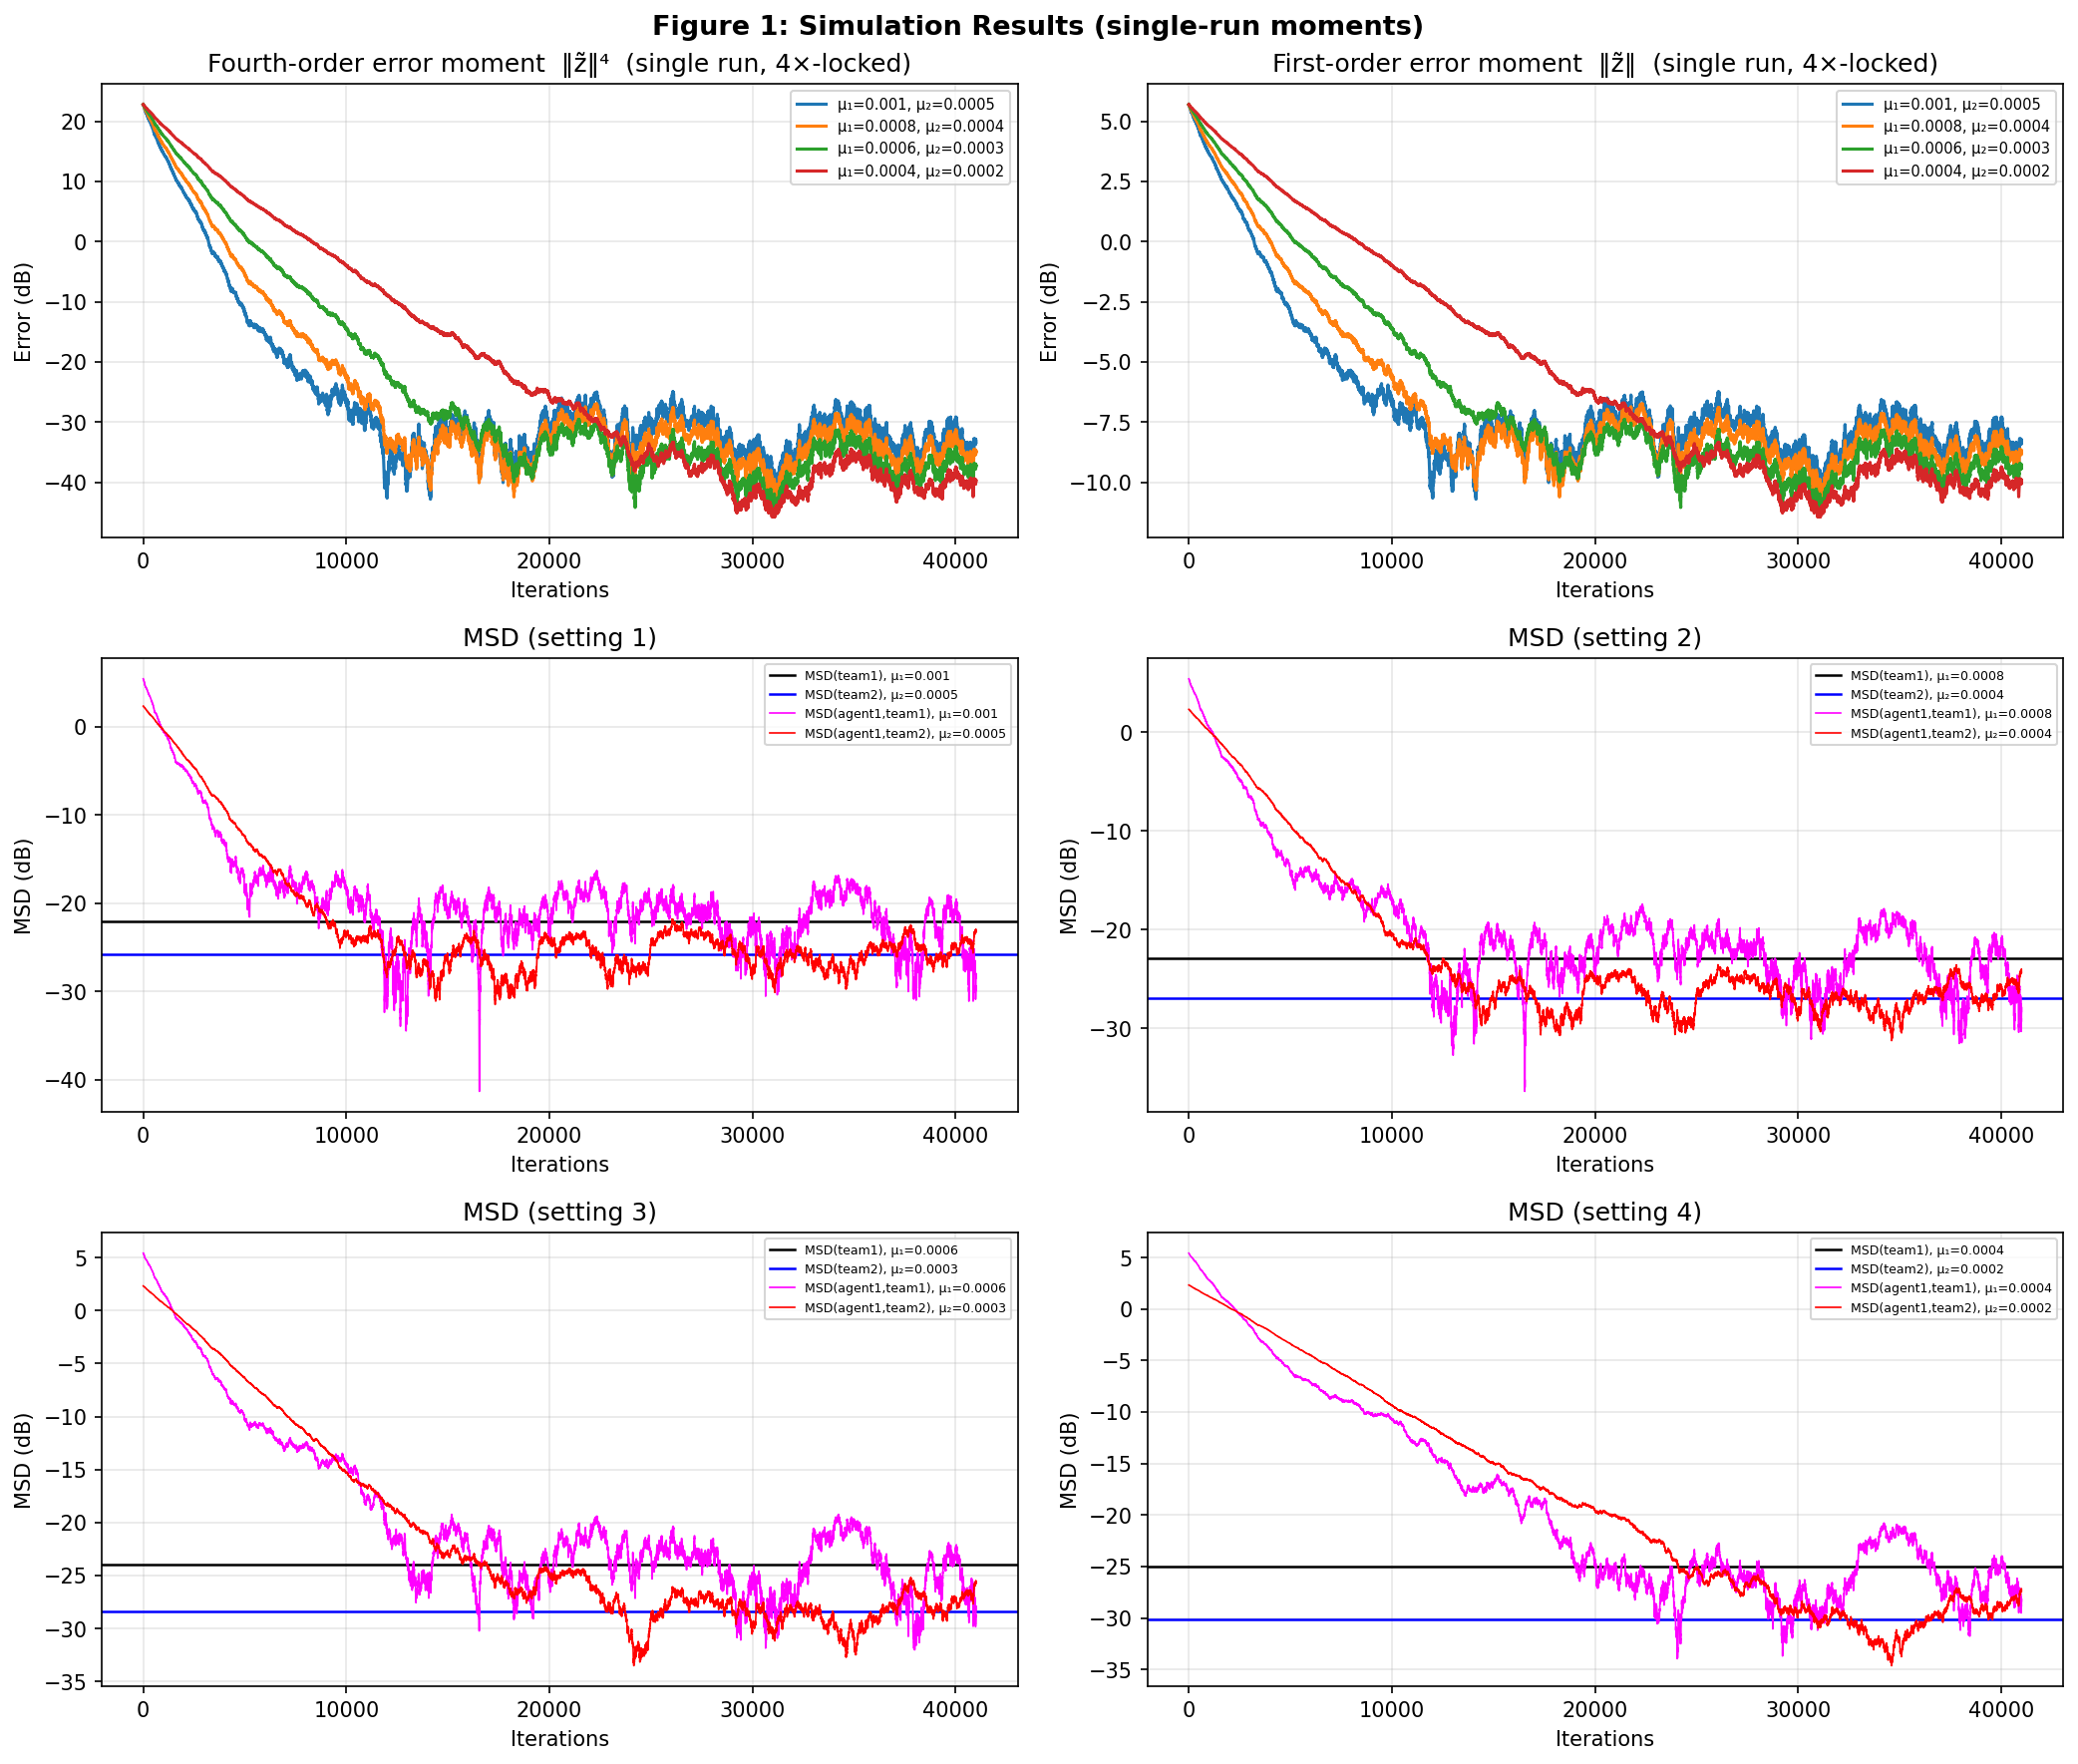
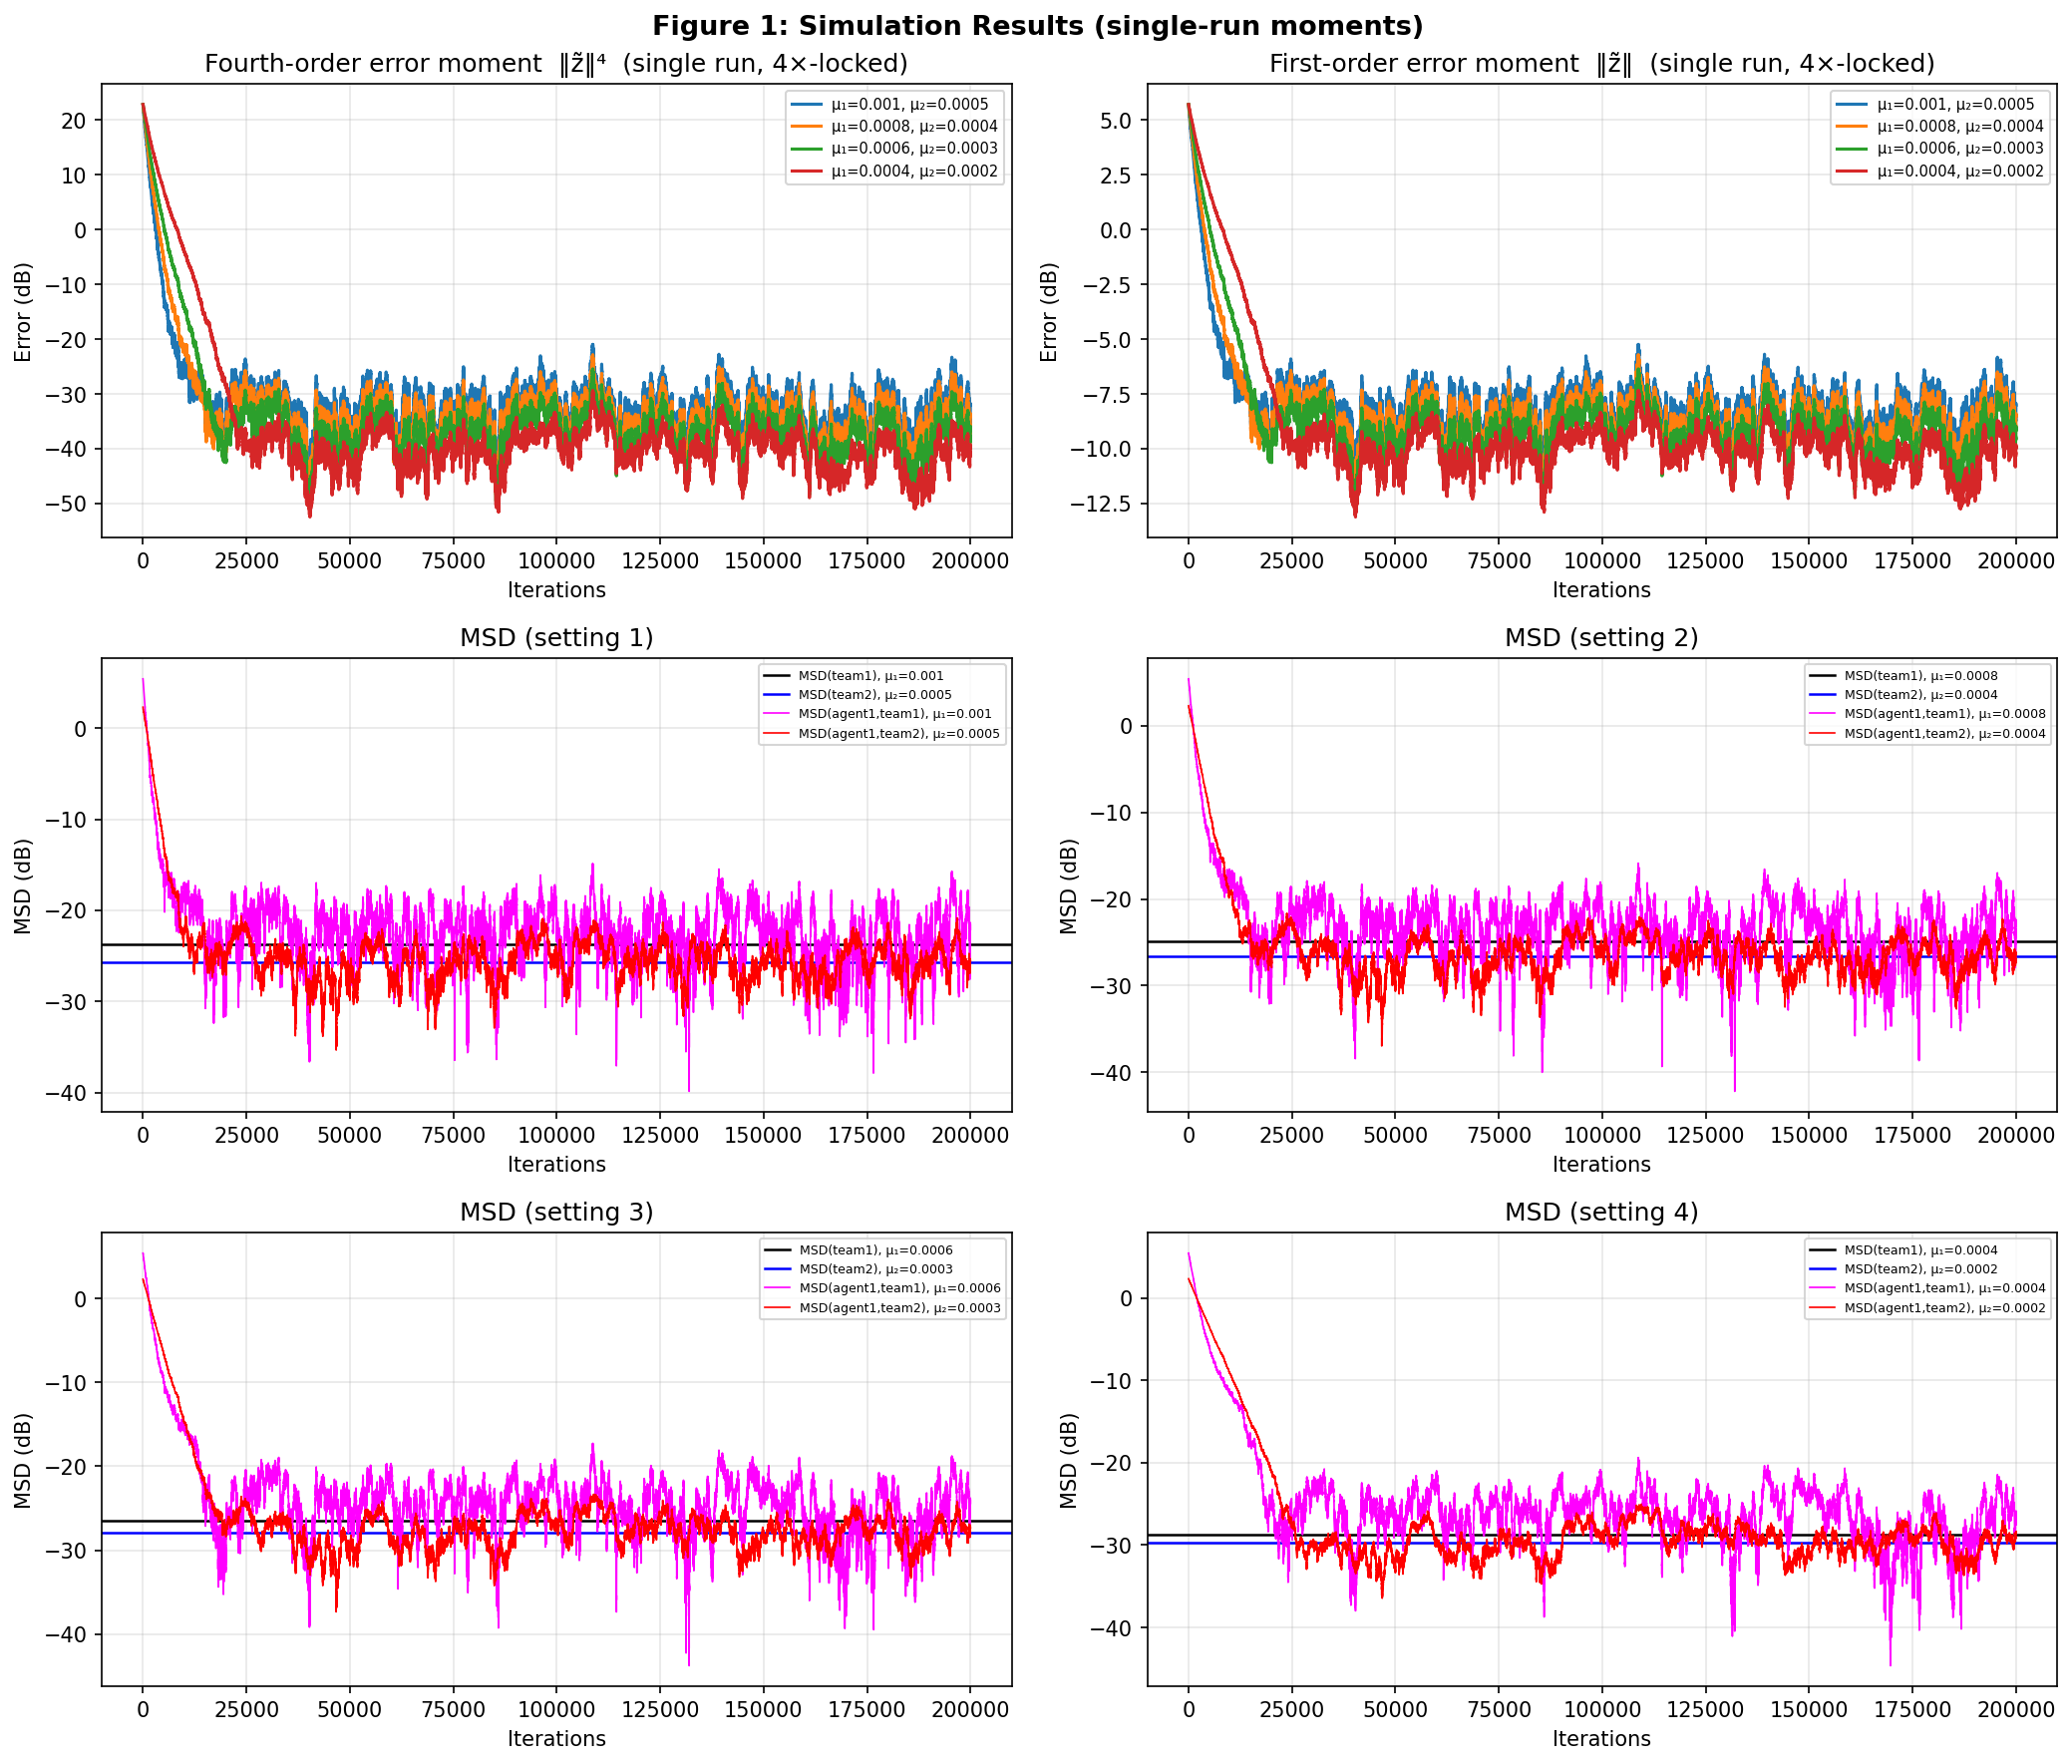
did 200k single, saved 41k MC

diff --git a/scratch/early_iters_throwaway.py b/scratch/early_iters_throwaway.py
@@ -1,0 +1,61 @@
+# THROWAWAY diagnostic — not part of the project. Safe to delete.
+# Short run (few iters) for all 3 topologies with IDENTICAL obs + init, to see the
+# early-iteration consensus separation in MSD (dB AND linear) + within-team disagreement.
+
+import os, sys
+ROOT = os.path.dirname(os.path.dirname(os.path.abspath(__file__)))
+sys.path.insert(0, ROOT)
+
+import numpy as np
+import matplotlib.pyplot as plt
+from config import TOPOLOGIES, MU1, MU2, K1, K2, Z_STAR, ZK_STAR, R_U
+from network import build_within_team_matrix, build_cross_team_matrices
+from algorithm import run_cd
+from metrics import compute_msd, compute_within_team_disagreement, to_db
+from game import QuadraticGame
+
+N_ITERS = 40        # total run length
+ZOOM    = 15        # iterations to display
+colors  = {"fully_connected": "tab:blue", "ring": "tab:orange", "single_edge": "tab:green"}
+
+msd_lin, msd_db, disagree = {}, {}, {}
+for topo in TOPOLOGIES:
+    A1   = build_within_team_matrix(topo, K1)
+    A2   = build_within_team_matrix(topo, K2)
+    mats = build_cross_team_matrices(topo)
+    game = QuadraticGame(ZK_STAR, R_U)          # fresh game, same seed -> identical obs
+    hist = run_cd(game, {**mats, "A1": A1, "A2": A2}, mu1=MU1, mu2=MU2,
+                  num_iters=N_ITERS, use_cache=False, label=topo)
+    m = compute_msd(hist, Z_STAR)               # linear
+    msd_lin[topo]  = m
+    msd_db[topo]   = to_db(m)
+    disagree[topo] = compute_within_team_disagreement(hist)
+
+# --- numeric table, first 8 iters ---
+print("\niter |        MSD linear (fully / ring / single)        |   disagreement (fully / ring / single)")
+for i in range(8):
+    ml = [msd_lin[t][i] for t in TOPOLOGIES]
+    dd = [disagree[t][i] for t in TOPOLOGIES]
+    print(f"{i:>4} | {ml[0]:8.4f} {ml[1]:8.4f} {ml[2]:8.4f}  | "
+          f"{dd[0]:8.4f} {dd[1]:8.4f} {dd[2]:8.4f}")
+
+# --- plot ---
+fig, (ax_db, ax_lin, ax_dis) = plt.subplots(1, 3, figsize=(18, 5))
+fig.suptitle(f"THROWAWAY: first {ZOOM} iterations, identical obs+init (μ₁={MU1}, μ₂={MU2})",
+             fontweight="bold")
+
+for t in TOPOLOGIES:
+    ax_db.plot(range(ZOOM),  msd_db[t][:ZOOM],  "o-", color=colors[t], label=t)
+    ax_lin.plot(range(ZOOM), msd_lin[t][:ZOOM], "o-", color=colors[t], label=t)
+    ax_dis.plot(range(ZOOM), disagree[t][:ZOOM], "o-", color=colors[t], label=t)
+
+ax_db.set_title("MSD-to-Nash (dB)");      ax_db.set_ylabel("MSD (dB)")
+ax_lin.set_title("MSD-to-Nash (linear)"); ax_lin.set_ylabel(r"mean $\|est-z^*\|^2$ (linear)")
+ax_dis.set_title("Within-team disagreement (linear)"); ax_dis.set_ylabel(r"mean $\|x_k-\bar x\|^2$ (linear)")
+for ax in (ax_db, ax_lin, ax_dis):
+    ax.set_xlabel("Iteration"); ax.legend(); ax.grid(True, alpha=0.3)
+
+plt.tight_layout()
+out = os.path.join(os.path.dirname(os.path.abspath(__file__)), "early_iters_throwaway.png")
+plt.savefig(out, dpi=150, bbox_inches="tight")
+print(f"\nSaved -> {out}")

diff --git a/config.py b/config.py
@@ -17,7 +17,12 @@ MU1 = 0.001
 MU2 = 0.0005
 
 # --- Simulation ---
-NUM_ITERS = 200_000
+# Regular/single-run figures use the paper's full horizon (2×10⁵). The Monte-Carlo
+# moment panels (Figure 1, mc mode) run MC_SEEDS × 4 μ-settings, so 200k there is far
+# too slow; they keep the shorter 41k horizon. This preserves the existing 41k MC
+# figures while letting the regular figures move to 200k.
+NUM_ITERS    = 200_000   # regular / single-run: Fig 1 (regular), Fig 2, Fig 3
+MC_NUM_ITERS = 41_000    # Monte-Carlo moment panels only: Fig 1 (mc)
 RANDOM_SEED = 42
 
 # Monte-Carlo realisations for the error-moment panels in Figure 1.

diff --git a/experiments/reproduce_figure1.py b/experiments/reproduce_figure1.py
@@ -25,7 +25,7 @@ sys.path.insert(0, ROOT)
 
 import numpy as np
 import matplotlib.pyplot as plt
-from config import K1, K2, MU_SWEEP, MC_SEEDS, Z_STAR, ZK_STAR, R_U
+from config import K1, K2, MU_SWEEP, MC_SEEDS, MC_NUM_ITERS, Z_STAR, ZK_STAR, R_U
 from network import build_within_team_matrix, build_cross_team_matrices, sanity_check
 from algorithm import run_cd
 from game import QuadraticGame
@@ -54,7 +54,8 @@ def _mc_error_moments(matrices, mu1, mu2, n_seeds, tag):
     hist0 = None
     for s in range(n_seeds):
         game = QuadraticGame(ZK_STAR, R_U, rng=np.random.default_rng(s))
-        hist = run_cd(game, matrices, mu1=mu1, mu2=mu2, seed=s, use_cache=False,
+        hist = run_cd(game, matrices, mu1=mu1, mu2=mu2, num_iters=MC_NUM_ITERS,
+                      seed=s, use_cache=False,
                       label=f"{tag} seed {s + 1}/{n_seeds}")
         e4_sum = e4_sum + compute_fourth_order_moment(hist, Z_STAR) if e4_sum is not None \
             else compute_fourth_order_moment(hist, Z_STAR)

diff --git a/DOA_internal_doc_corrected.md b/DOA_internal_doc_corrected.md
@@ -1,0 +1,159 @@
+# DOA Projekat interni dokument
+
+**Links:**
+- Git Repo
+- This document
+- Overleaf (LaTeX of the paper)
+
+## Project idea
+
+Roughly speaking: let's implement the CD algorithm from the given paper, vary mu and network topology, and see how it behaves depending on those changes.
+
+Final goal/deliverable? Unclear, one option is aiming for these three plots:
+- **Figure 1:** reproduce the paper's MSD plots as validation that implementation is correct
+- **Figure 2:** MSD convergence for varying topology sparsity — fully connected vs ring vs single cross-team edge. *(Finding from the runs: the MSD-to-Nash floor is essentially topology-invariant in this regime — the gradient timescale 1/μ greatly exceeds the graph-mixing timescale, and every connected graph reaches the same steady state. The figure presents this invariance, plus a within-team-disagreement panel where topology IS visible: fully connected reaches consensus in 1 step, ring/single-edge over ~5 steps. This is consistent with the paper's claim that a single cross-team edge already converges.)*
+- **Figure 3:** MSD floor as a function of μ for fixed topology
+
+## Zadaci po osobi:
+
+Ovo je okviran predlog za početak, i menjaće se kroz vreme
+
+### Role 1: The Algorithm - Milica
+Objective: Build the core logic of the Competing Diffusion (CD) algorithm and the simulated "World."
+- Implement Algorithm 1: Code the iterative update loops found in the source material. This includes:
+  - Within-Team Diffusion: Implementing the "Adapt-then-Combine" (ATC) step where agents take a gradient step and average with teammates.
+  - Cross-Team Inference: Coding the step where agents estimate the opponent's move using limited cross-team observations.
+- Implement stochastic gradient formula for the quadratic loss, based on the formula documented by Marija.
+- Data Generation: Create a "streaming data" class to simulate the Quadratic Game. You will generate the observations (u_{k,i} and d(k,i)) for each agent at every time step using **that agent's own ground-truth vector z_k\*** (one per agent — paper eq. 26), parameterized by the mathematician. **Important:** data is generated from the per-agent targets z_k\*, NOT from the shared Nash equilibrium z\*. (With a single shared z\* the teams would trivially agree and there would be no real competition.) The Nash z\* is derived from the set of {z_k\*} and is used only to measure error.
+- Modular Integration: Ensure the algorithm is modular so it can easily accept different graph structures and step-size parameters for testing.
+- Paper writing: explaining the implementation section, and any shared parts (eg intro)
+
+### Role 2: The Network & Performance - Luka
+Objective: Handle the infrastructure (graph theory) and visualize how well the system learns.
+- Network Topology (Graph Design): Use NetworkX to build the connection matrices (A). You must ensure they meet the paper's requirements: they must be left-stochastic (columns sum to 1) and primitive (the network is connected).
+- Independent Experimentation: Run two separate sets of simulations to "stress test" the algorithm's performance:
+  - Topology Test: Compare how the algorithm converges when teams are fully connected vs. when they are connected by only a single link. Could be multiple plots for a handful of topologies, or many topologies, in which case topology goes into x axis (actually metric). Which metric? Testing which one has biggest correlation?
+  - Learning Rate Test: Compare the steady-state "error floor" across different step-sizes (μ). The paper's Fig. 1 displays MSD at four step-size settings (its four MSD panels); **Figure 3 consolidates those floors into a single floor-vs-μ curve — that consolidation is our own plot**, motivated by the O(μ_max) steady-state bound (Theorem 1/2).
+- Call the MSD prediction function to overlay theoretical vs simulated curves on plots. Probably too complex to implement, so skipped.
+- Visualization: Calculate the Mean-Square Deviation (MSD) — the average squared distance from the truth — and plot it in dB (decibels) over the simulation horizon (NUM_ITERS = 41,000 iterations in our runs; the paper uses 2×10⁵).
+- Paper writing: explaining the graph topology section and the plots/visualization and any shared parts (eg intro).
+- Available as much as needed for the presentation/paper defense.
+
+### Role 3: The Theory & Strategy - Marija
+Objective: Define the "rules" of the game and translate the paper's stability requirements into code parameters.
+- Problem Formulation: Define the specific Quadratic Game parameters (like covariance matrices R_{k,u} and noise levels σ_{k,v}) **and the per-agent target vectors z_k\***.
+- Establish the "Ground Truth": Define the per-agent targets z_k\*, then compute the Nash Equilibrium (z\*) from the set of {z_k\*} (an exact linear solve). **Milica needs the per-agent z_k\*** to generate each agent's data; **Luka needs the Nash z\*** to measure the error (MSD). Note the dependency: the z_k\* are the inputs, z\* is derived from them.
+- Document the stochastic gradient formula so Milica can implement it
+- Parameter Tuning: Determine the valid range for the step-sizes (μ). You will use the paper's Assumption 2 to ensure the chosen values are "sufficiently small" to guarantee that the system remains stable and doesn't "blow up".
+- Theoretical MSD Prediction Function: using Lyapunov equation. Probably too complex, skipped.
+- Analysis: Lead the report-writing by explaining why the algorithm is stable in your tests. You will link the observed results (e.g., why a smaller μ results in a lower error floor) back to the paper's first- and fourth-order stability claims.
+- Looking into literature: finding if any relevant similar papers exist to be listed in bibliography, maybe specific examples/applications, or descriptions how CD algorithm responds to mu/topology changes, or on diffusion learning for context, or on network games. Not a full literature review.
+
+---
+
+## Glossary/rečnik ključnih varijabli/konstanti
+
+Pošto ima puno grčkih slova, latiničnih slova, podvučeno, nadvučeno, subskript, superscript - na jednom mestu ćemo ih sve definisati prostim rečima, pa pojasniti teorijski i provući kroz ilustrativan primer prodavnica da bismo lakše intuitivno razumeli šta se dešava.
+
+### 1. Problem Given
+Everything here is fixed before the algorithm starts. You define these once when setting up the simulation.
+
+- **K₁** — How many agents are in Team 1. FreshMart/QuickShop: K₁ = 2 (two FreshMart store locations).
+- **K₂** — How many agents are in Team 2. FreshMart/QuickShop: K₂ = 4 (four QuickShop store locations).
+- **K** — Total agents across both teams. K = K₁ + K₂. FreshMart/QuickShop: K = 6.
+- **M₁** — How many numbers Team 1 is optimizing — the length of their strategy vector. FreshMart/QuickShop: M₁ = 2 (FreshMart sets one price for bread, one for milk).
+- **M₂** — Same as M₁ but for Team 2. FreshMart/QuickShop: M₂ = 3 (QuickShop sets prices for bread, milk, cheese).
+- **M** — Total strategy dimension across both teams. M = M₁ + M₂. FreshMart/QuickShop: M = 5.
+- **N^(1)** — The set of labels identifying Team 1's agents. N^(1) = {1, …, K₁}. FreshMart/QuickShop: N^(1) = {1, 2}.
+- **N^(2)** — The set of labels identifying Team 2's agents. N^(2) = {K₁+1, …, K}. FreshMart/QuickShop: N^(2) = {3, 4, 5, 6}.
+- **N** — All agents together. N = N^(1) ∪ N^(2). FreshMart/QuickShop: N = {1, 2, 3, 4, 5, 6}.
+
+- **p_k^(t)** — How much agent k's loss counts toward its team's total objective. A positive scalar set by design. All weights within a team sum to 1. In the simplest case every agent is weighted equally. FreshMart/QuickShop: p₁^(1) = p₂^(1) = 0.5 — both FreshMart stores contribute equally to FreshMart's total loss. **Note: the p_k weights appear in the team objective J^(t) and in Marija's Assumption-2 computation. They do NOT appear in the ATC update loop — each agent simply steps along its own local gradient ∇Q_k with no explicit weighting. The weighting is implicit: with the chosen (uniform, doubly-stochastic) combination matrices, the dynamics converge to the p_k-weighted Nash equilibrium.**
+
+- **Q_k^(t)(x, y, ξ)** — The loss agent k computes from a single observed data sample ξ. One noisy estimate of how bad the current strategy is. For the quadratic game this is (1/2)‖u_{k,i}^T z − d(k,i)‖². FreshMart/QuickShop: How poorly FreshMart store 1's current pricing explains today's customer demand — computed from a single day's observation.
+- **J_k^(t)(x, y)** — The true expected loss of agent k — the average of Q_k^(t) over all possible data samples. This is what the agent would minimize if it had infinite data. In practice it can't be computed directly, only approximated sample by sample. FreshMart/QuickShop: FreshMart store 1's average pricing error across all possible market days, given both chains' current prices.
+- **J^(1)(x, y)** — Team 1's total objective. Weighted sum of all Team 1 agents' expected losses: J^(1) = Σ p_k^(1) J_k^(1). This is what Team 1 collectively minimizes by choosing x. FreshMart/QuickShop: FreshMart's overall pricing performance — a weighted average across both store locations.
+- **J^(2)(x, y)** — Same as J^(1) but for Team 2, minimized over y. FreshMart/QuickShop: QuickShop's overall pricing performance across all four stores.
+
+- **z_k\*** — Agent k's OWN ground-truth target vector, ∈ R^M. The "true" parameters behind agent k's local observations: d(k,i) = u_{k,i}^T z_k\* + v(k,i) (paper eq. 26). Each agent has its own z_k\*, and they generally differ across agents — that difference is what creates genuine competition (with one shared target the teams would trivially agree). Fixed before training; defined by Marija. FreshMart/QuickShop: each store's local market responds a bit differently, so each store k carries its own private "true" demand/price model z_k\* ∈ R^5.
+- **x\*** — The price vector Team 1 would settle on if both teams had fully adapted to each other. A fixed point: Team 1 can't do better by changing x\* if Team 2 is already at y\*. Unknown at runtime — finding it is the whole point of running the algorithm. FreshMart/QuickShop: e.g. x\* = [2.50, 1.80] — equilibrium prices for bread and milk at FreshMart.
+- **y\*** — Same as x\* but for Team 2. FreshMart/QuickShop: e.g. y\* = [2.30, 1.90, 4.50] — equilibrium prices for bread, milk, cheese at QuickShop.
+- **z\*** — x\* and y\* stacked into one vector. The full Nash equilibrium. z\* = col{x\*, y\*} ∈ R^M. The ground truth the whole algorithm converges toward. **It is DERIVED from the per-agent {z_k\*} by solving the Nash condition (an exact linear solve) — it is not handed in directly and is not used to generate data.** Luka uses z\* to measure MSD (how far each estimate is from z\*); the algorithm never sees it directly, only chases it. FreshMart/QuickShop: z\* = [2.50, 1.80, 2.30, 1.90, 4.50] — the chain-wide equilibrium prices that emerge from all the stores' competing local models.
+
+#### Combination Matrices
+Six matrices total, all fixed before training starts. They encode who communicates with whom and how much they trust each other. Understanding the difference between them is one of the trickier parts of this paper.
+
+Organized in two groups:
+- **Group 1 — Within-team diffusion (2 matrices):** Used in the within-team diffusion step. Govern how each team shares its actual strategy iterates internally.
+- **Group 2 — Cross-team inference (4 matrices):** Used in the cross-team inference step. Govern how each team builds and spreads its beliefs about the opponent's strategy. These four come as two larger block matrices in the paper:
+
+```
+A^(21)_blk = [ A^(21) ]    total shape: K×K₁   (here 6×2)
+             [ A^(11) ]
+
+A^(12)_blk = [ A^(12) ]    total shape: K×K₂   (here 6×4)
+             [ A^(22) ]
+```
+
+The _blk suffix is notation specific to this paper meaning "this is the full block matrix, which splits into two sub-matrices stacked vertically." The upper block is the direct cross-team observation; the lower block is the within-team propagation of inferred beliefs.
+
+- **A^(1)** ∈ R^{K₁×K₁} — Within-Team-1 trust matrix for actual strategy iterates. Entry (ℓ,k) is the weight agent k places on agent ℓ's current strategy estimate when combining. Columns sum to 1. Must be primitive — all agents can eventually influence all others. FreshMart/QuickShop: 2×2 matrix. e.g. A^(1) = [[0.6, 0.4], [0.4, 0.6]] — each FreshMart store weights itself 60% and its teammate 40%.
+- **A^(2)** ∈ R^{K₂×K₂} — Same as A^(1) but for Team 2's actual strategy iterates. FreshMart/QuickShop: 4×4 matrix governing how QuickShop stores share their strategy estimates.
+- **A^(21)** ∈ R^{K₂×K₁} — How much each Team 1 agent weights direct observations of Team 2 agents' actual iterates when forming its belief about y\*. At least one entry must be nonzero — this is the minimum connectivity condition between the two teams that the paper's convergence result relies on. FreshMart/QuickShop: 4×2 matrix. Entry (ℓ,k): how much FreshMart store k trusts its direct observation of QuickShop store ℓ's current prices.
+- **A^(11)** ∈ R^{K₁×K₁} — How Team 1 agents share their inferred beliefs about y\* among themselves. Despite the name this is not the same as A^(1). A^(1) moves actual strategy iterates x_{k,i}; A^(11) moves inferred beliefs y'_{k,i}. The two matrices are structurally independent and can differ. FreshMart/QuickShop: 2×2 matrix. How much FreshMart stores share and blend their guesses about QuickShop's equilibrium prices with each other.
+- **A^(12)** ∈ R^{K₁×K₂} — Same as A^(21) but in the other direction: how much Team 2 agents weight direct observations of Team 1's actual iterates when forming beliefs about x\*. FreshMart/QuickShop: 2×4 matrix. How much each QuickShop store trusts its direct observation of FreshMart's current prices.
+- **A^(22)** ∈ R^{K₂×K₂} — Same as A^(11) but for Team 2: how QuickShop stores share their inferred beliefs about x\* among themselves. FreshMart/QuickShop: 4×4 matrix.
+
+**✓ Resolved (was an open question): A^(1) and A^(11) both operate within Team 1 but move different things — actual iterates vs inferred beliefs. They CAN be set to the same matrix in practice without breaking correctness — both only need to be left-stochastic and primitive. The paper keeps them independent because they conceptually govern different quantities, but there is no theoretical requirement that they differ.**
+
+### 2. Hyperparameters
+Chosen before training. Not updated by the algorithm. The only real hyperparameters here are the step sizes.
+
+- **μ^(1)** — Step size for Team 1. Controls how big a gradient step each Team 1 agent takes each iteration. Must be small enough to satisfy Assumption 2 (the convergence condition). Constant throughout training. FreshMart/QuickShop: e.g. μ^(1) = 0.001.
+- **μ^(2)** — Step size for Team 2. Can differ from μ^(1) because the two loss landscapes may have different curvature. (The paper's own four experiments happen to use μ^(2) = μ^(1)/2, but Assumption 2 only constrains the ratio, so other valid pairs exist.) FreshMart/QuickShop: e.g. μ^(2) = 0.0008.
+- **μ_max** — The larger of the two step sizes: max{μ^(1), μ^(2)}. Not an independent choice — derived from the two above. Directly controls the steady-state MSD floor: smaller μ_max means agents converge closer to z\* but adapt more slowly. Appears in every convergence bound in the paper. FreshMart/QuickShop: μ_max = 0.001.
+
+### 3. Stochastic Observations
+What each agent receives from the environment each iteration. The algorithm reads these but has no control over them. In the simulation these are generated synthetically.
+
+- **u_{k,i}** ∈ R^{1×M} — The demand sensitivity vector observed at agent k on iteration i. Each of its M entries says: if this product's price changes by $1, how many customers does store k gain or lose? Sampled fresh every iteration from N(0, R_{k,u}). FreshMart/QuickShop: For a FreshMart store, u_{k,i} has 5 entries — sensitivities to FreshMart bread, FreshMart milk, QuickShop bread, QuickShop milk, QuickShop cheese. e.g. u_{k,i} = [-0.8, +0.2, +0.5, -0.1, +0.3]: raising FreshMart bread price by $1 loses 0.8 customers; QuickShop raising their bread price by $1 sends 0.5 customers to FreshMart.
+- **d(k,i)** — The actual demand change observed at store k on day i. A single scalar. Generated as d(k,i) = u_{k,i}^T z_k\* + v(k,i) — agent k's OWN true model (per-agent z_k\*, not the shared Nash z\*) plus noise. This is the learning signal the algorithm uses each iteration. FreshMart/QuickShop: e.g. 3.40 — store k gained a net 3.4 customers today relative to baseline.
+- **v(k,i)** — Observation noise on demand. A small random scalar, independent across stores and days. Drawn from N(0, σ²_{k,v}). Represents unmodeled factors — weather, a local event, random footfall. FreshMart/QuickShop: e.g. 0.05 — a tiny random disturbance on today's demand reading.
+- **ξ_{k,i}** — Shorthand for the full random draw at agent k on iteration i: the pair (u_{k,i}, v(k,i)) together. Used in the loss function definition to make clear that all randomness at this agent on this day comes from one draw. FreshMart/QuickShop: Everything random that FreshMart store 1 experiences on day i — the sensitivity vector it observes and the noise on its demand reading.
+
+### 4. Algorithm Iterates
+The internal state the algorithm maintains and updates every iteration. This is what actually runs during training.
+
+- **x_{k,i}** ∈ R^{M₁} — Agent k's current guess of x\* at iteration i. Not the store's actual prices — its current best estimate of what Team 1's optimal price vector should be. All K₁ Team 1 agents are chasing the same x\*; they start with different random guesses and align through diffusion over time. Updated by the within-team diffusion step (eq. 3a). FreshMart/QuickShop: FreshMart store 1's guess at iteration i. e.g. [1.20, 3.10] early in training (random, wrong), gradually converging toward x\* = [2.50, 1.80].
+- **y_{k,i}** ∈ R^{M₂} — Agent k's current guess of y\* at iteration i. For k ∈ N^(2): same role as x_{k,i} but within Team 2. Updated by eq. 3b. FreshMart/QuickShop: QuickShop store 2's current best guess at QuickShop's equilibrium prices for bread, milk, and cheese.
+- **y'_{k,i}** ∈ R^{M₂} — Agent k ∈ N^(1)'s inferred belief about y\*. Team 1 can't see Team 2's internal strategy discussions directly. It builds this belief by combining two sources: (a) direct observations of neighboring Team 2 agents' actual iterates y_{ℓ,i}, weighted by A^(21), and (b) its own teammates' previous inferred beliefs y'_{ℓ,i-1}, weighted by A^(11). Updated by the cross-team inference step (eq. 4a). This is what makes competition possible without full information. FreshMart/QuickShop: FreshMart store 1's running belief about what QuickShop's equilibrium prices are. Starts wrong, gradually tracks y\* as signals leak through the network.
+- **x'_{k,i}** ∈ R^{M₁} — Agent k ∈ N^(2)'s inferred belief about x\*. Symmetric to y'_{k,i} — built by Team 2 agents observing Team 1. Updated by eq. 4b. FreshMart/QuickShop: QuickShop store 3's running belief about FreshMart's equilibrium prices.
+- **z_i** — All iterates across all agents stacked into one vector. z_i = col{ {x_{k,i}}, {x'_{k,i}}, {y_{k,i}}, {y'_{k,i}} }. Not computed explicitly by any single agent — a theoretical convenience for writing the recursion compactly. Useful when thinking about the system as a whole. FreshMart/QuickShop: All 6 agents' current guesses stacked — a vector of total length M·K = 30.
+
+### 5. Analysis Machinery
+These variables exist to prove Theorems 1 and 2. Milica and Luka do not need these to implement or run the algorithm. Marija needs X and B to compute the theoretical MSD predictor. Everyone will encounter these symbols when reading Section 3 of the paper.
+
+- **s_{k,i}^(t)** — The gradient noise at agent k on iteration i. The difference between the stochastic gradient computed from one sample and the true expected gradient. Represents the error from learning off one day instead of averaging over all days. Has zero mean — it doesn't bias the algorithm, it just adds variance around the true direction. FreshMart/QuickShop: The error FreshMart store 1 makes by estimating the gradient from today's single demand observation rather than the true expectation.
+- **F_{i-1}** — The complete history of all iterates across both teams up to iteration i-1. Used to state conditional expectations precisely in the noise assumptions. Not computed anywhere — purely a mathematical bookkeeping device for the proofs.
+- **z̃_i** — How far all agents collectively are from Nash equilibrium at iteration i. The difference between the stacked target and the current z_i. The theorems bound the moments of its norm — proving this stays small is what convergence means formally.
+- **B_{i-1}, B** — The matrix driving the error recursion forward each step. B_{i-1} is the iteration-varying version; B is its deterministic limit evaluated at Nash equilibrium. Whether the algorithm converges reduces to whether B is stable — specifically whether its spectral radius is less than 1.
+- **Θ** — A large block matrix encoding the full network topology — both within-team and cross-team connections for both teams — in one object. Appears in the definition of B = Θ^T − A^T M H.
+- **H_i, H** — Integrated Hessian matrices capturing the local curvature of the loss landscape near z\*. Needed to linearize the error recursion around Nash equilibrium. H is their limit evaluated exactly at z\*. Required to build B and therefore to compute the theoretical MSD predictor.
+- **b** — Bias vector: stacked gradients of each agent's local loss evaluated at z\*. Nonzero because individual agents' gradients don't vanish at Nash equilibrium — only the weighted team sum does.
+- **X** — Steady-state error covariance matrix. Defined as X = (Σ_{n=0}^∞ B^{nT} B^n) · A^T M S M A. Summarizes the accumulated effect of gradient noise on long-run deviation from z\*. The key quantity in Theorem 2 — MSD_k = Tr(J_k^(t) X). Computed by solving a discrete Lyapunov equation using scipy.
+- **S, S^(t)** — Steady-state gradient noise covariance. Stacks the per-agent noise covariances evaluated at Nash equilibrium. Captures how noisy the gradient estimates are once the system has converged. Input to the formula for X.
+- **J_k^(1), J_k^(2)** — Selector matrices for agent k. Binary diagonal matrices that extract agent k's block from the full stacked error vector. Used to go from the global MSD bound (covering all agents) to the per-agent MSD bound in Theorem 2. Note: these are calligraphic J in the paper — different from the loss functions J^(1), J^(2).
+- **MSD_k** — Mean square deviation of agent k at steady state. How close agent k's estimate gets to Nash equilibrium in the long run, on average. The main performance metric. Theorem 2 gives MSD_k = Tr(J_k^(t) X). Plotted in dB over iterations in all the paper's figures. FreshMart/QuickShop: How far FreshMart store 1's converged price estimate is from x\* on average, in ($/product)².
+
+### 6. Regularity Constants
+Properties of the problem itself — not set by anyone, not updated by the algorithm. You verify these hold for your specific game parameters. If they do, and step sizes are small enough, the theory guarantees convergence. Presented as a table since entries are short.
+
+| Symbol | What it bounds | Plain meaning |
+|---|---|---|
+| δ_k^(1), δ_k^(2) | Lipschitz constant of agent k's gradient | How fast the gradient can change as strategy changes. Also bounds the Hessian magnitude. |
+| κ_d | Hessian Lipschitz constant | How fast the second derivative changes near z\*. Controls higher-order error terms in the Taylor expansion. |
+| ν_eff^(1), ν_eff^(2) | Strong monotonicity constant per team | Lower bound on each team's loss curvature in its own strategy direction. Guarantees a unique Nash equilibrium exists. |
+| δ_eff^(21), δ_eff^(12) | Cross-gradient coupling strength | How strongly Team 1's loss reacts to Team 2's strategy and vice versa. If too large relative to ν_eff, no step size can guarantee convergence. |
+| β̄_k^(t), σ̄_k^(t) | Gradient noise magnitude bounds | β̄ controls how noise grows with iterate magnitude; σ̄ controls the irreducible noise floor. Both appear in the 4th moment bound on gradient noise. |
+| γ ∈ (0,4], L | Noise covariance regularity near z\* | How smoothly noise statistics vary as you move away from Nash equilibrium. Needed for the MSD analysis to be tight. |
+| ε | Smallness threshold | Appears in "sufficiently small" conditions throughout the assumptions. Makes inequalities strict. Not something you compute. |